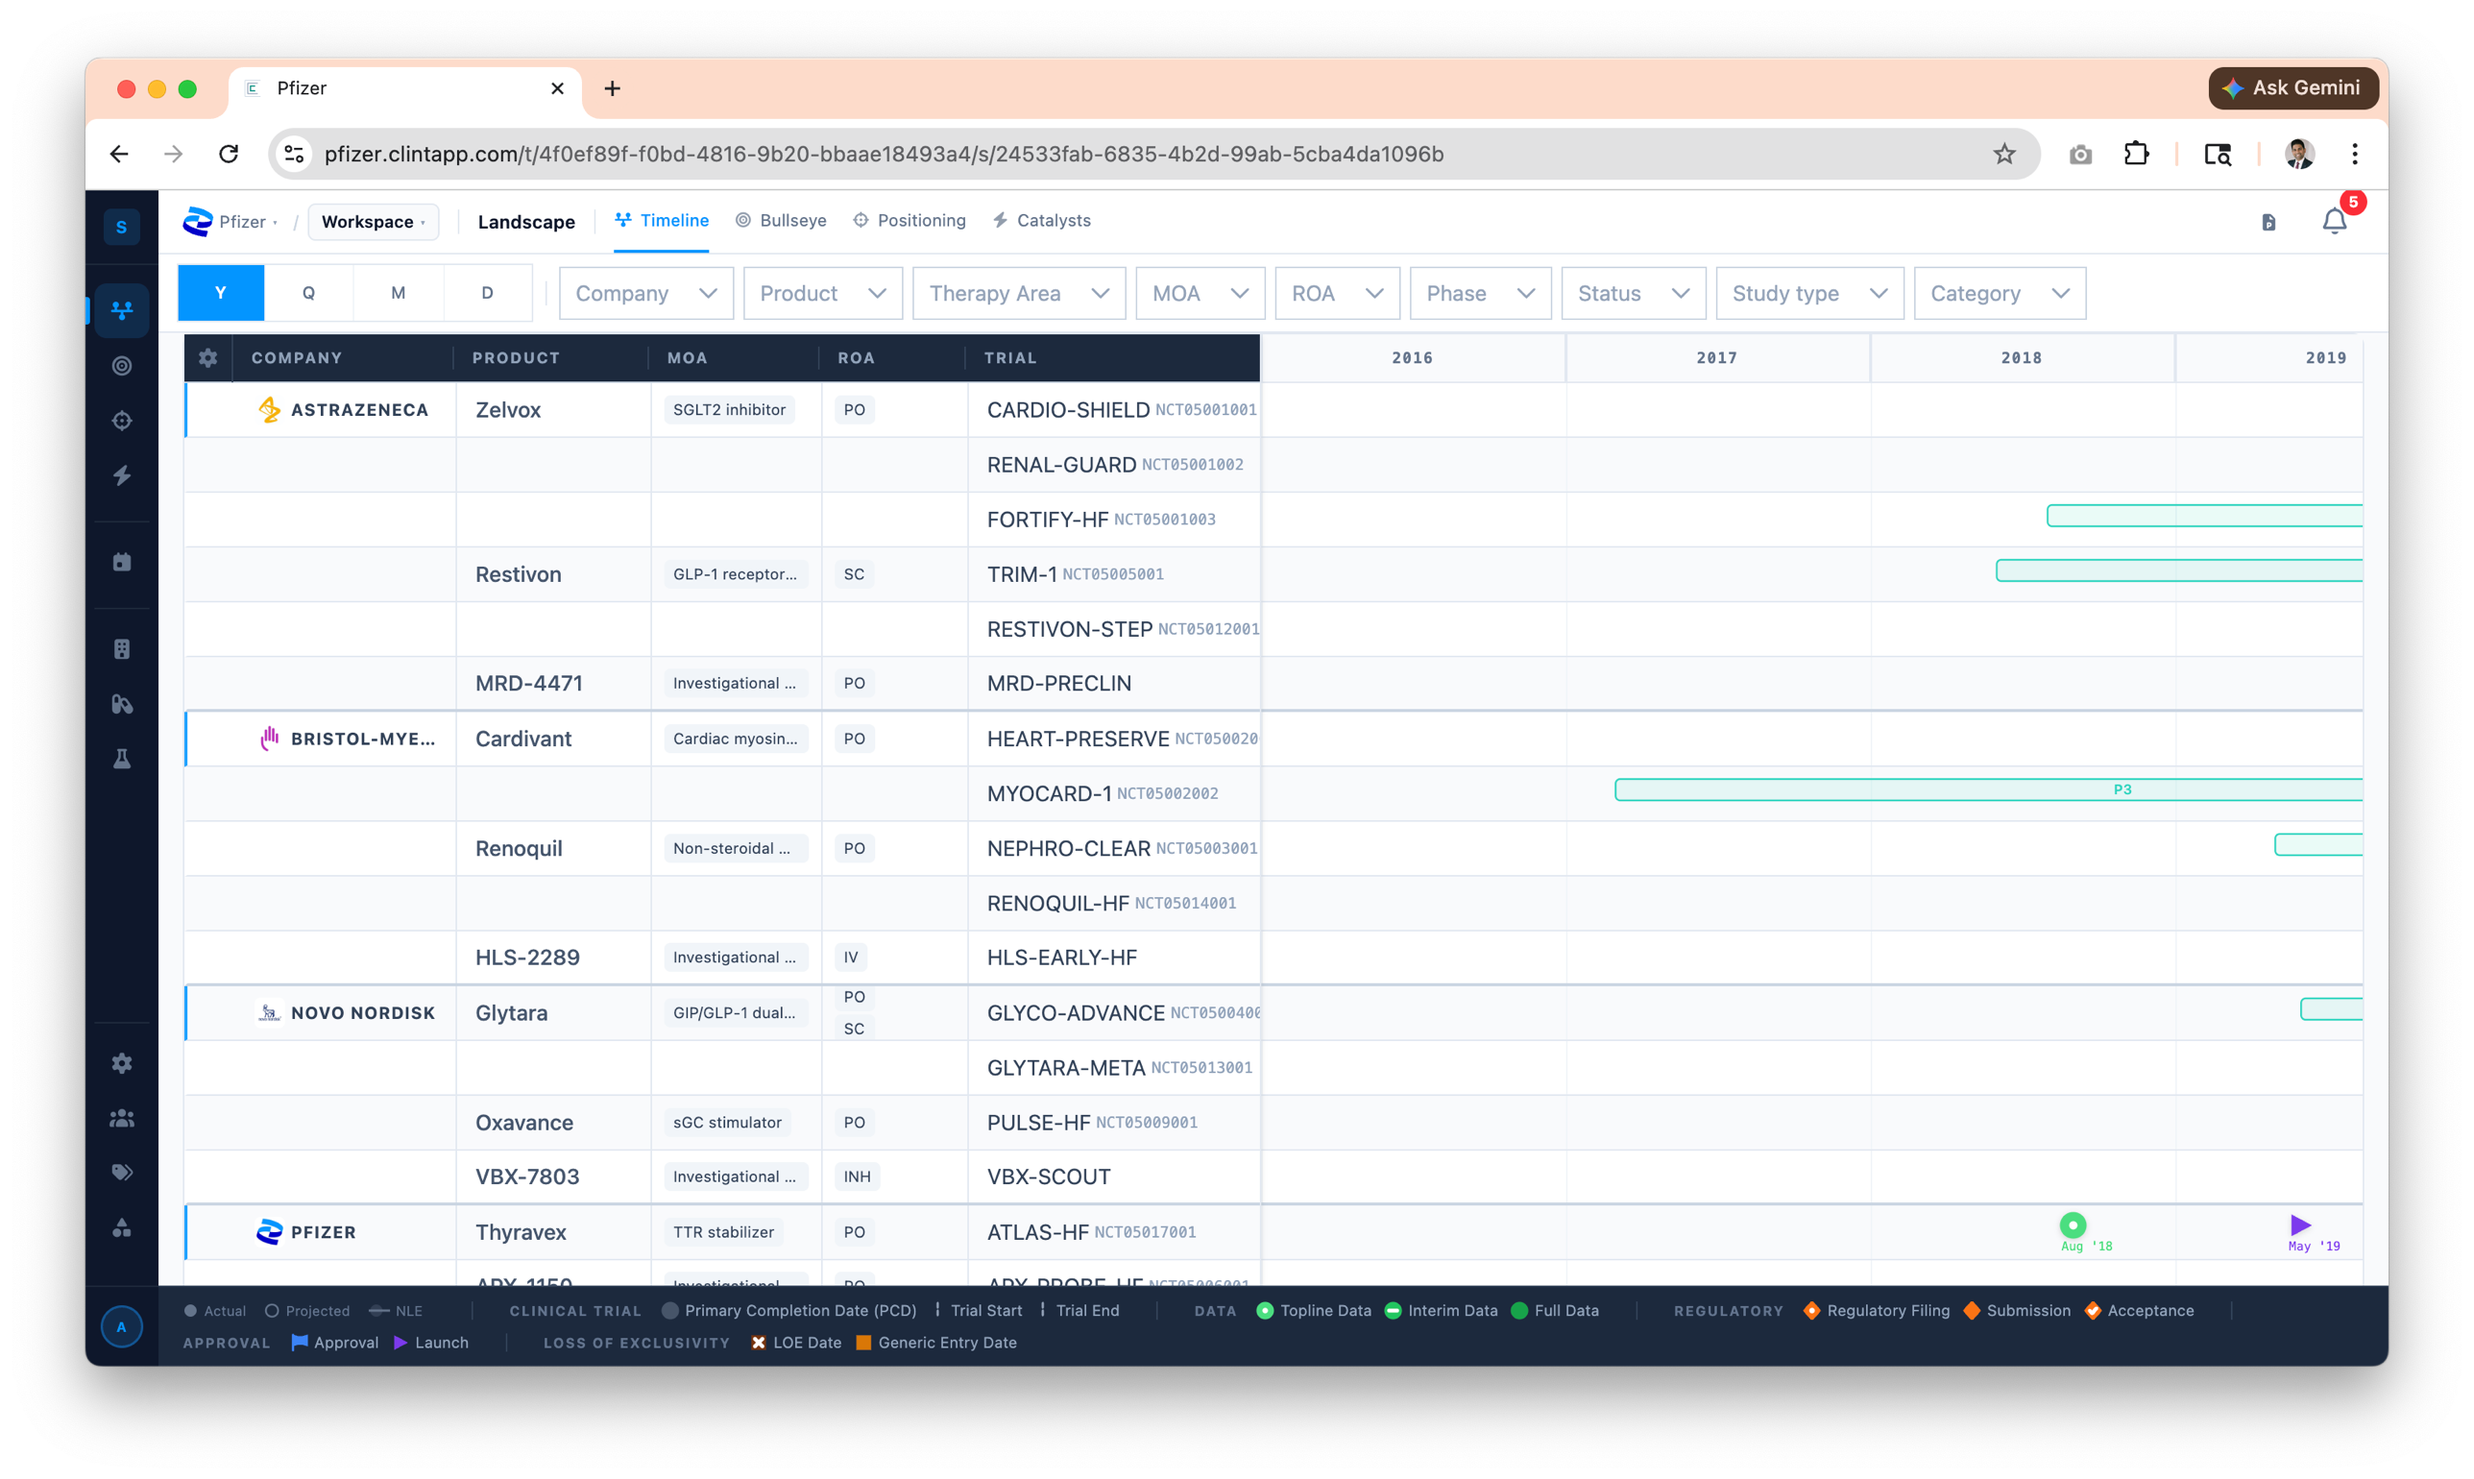
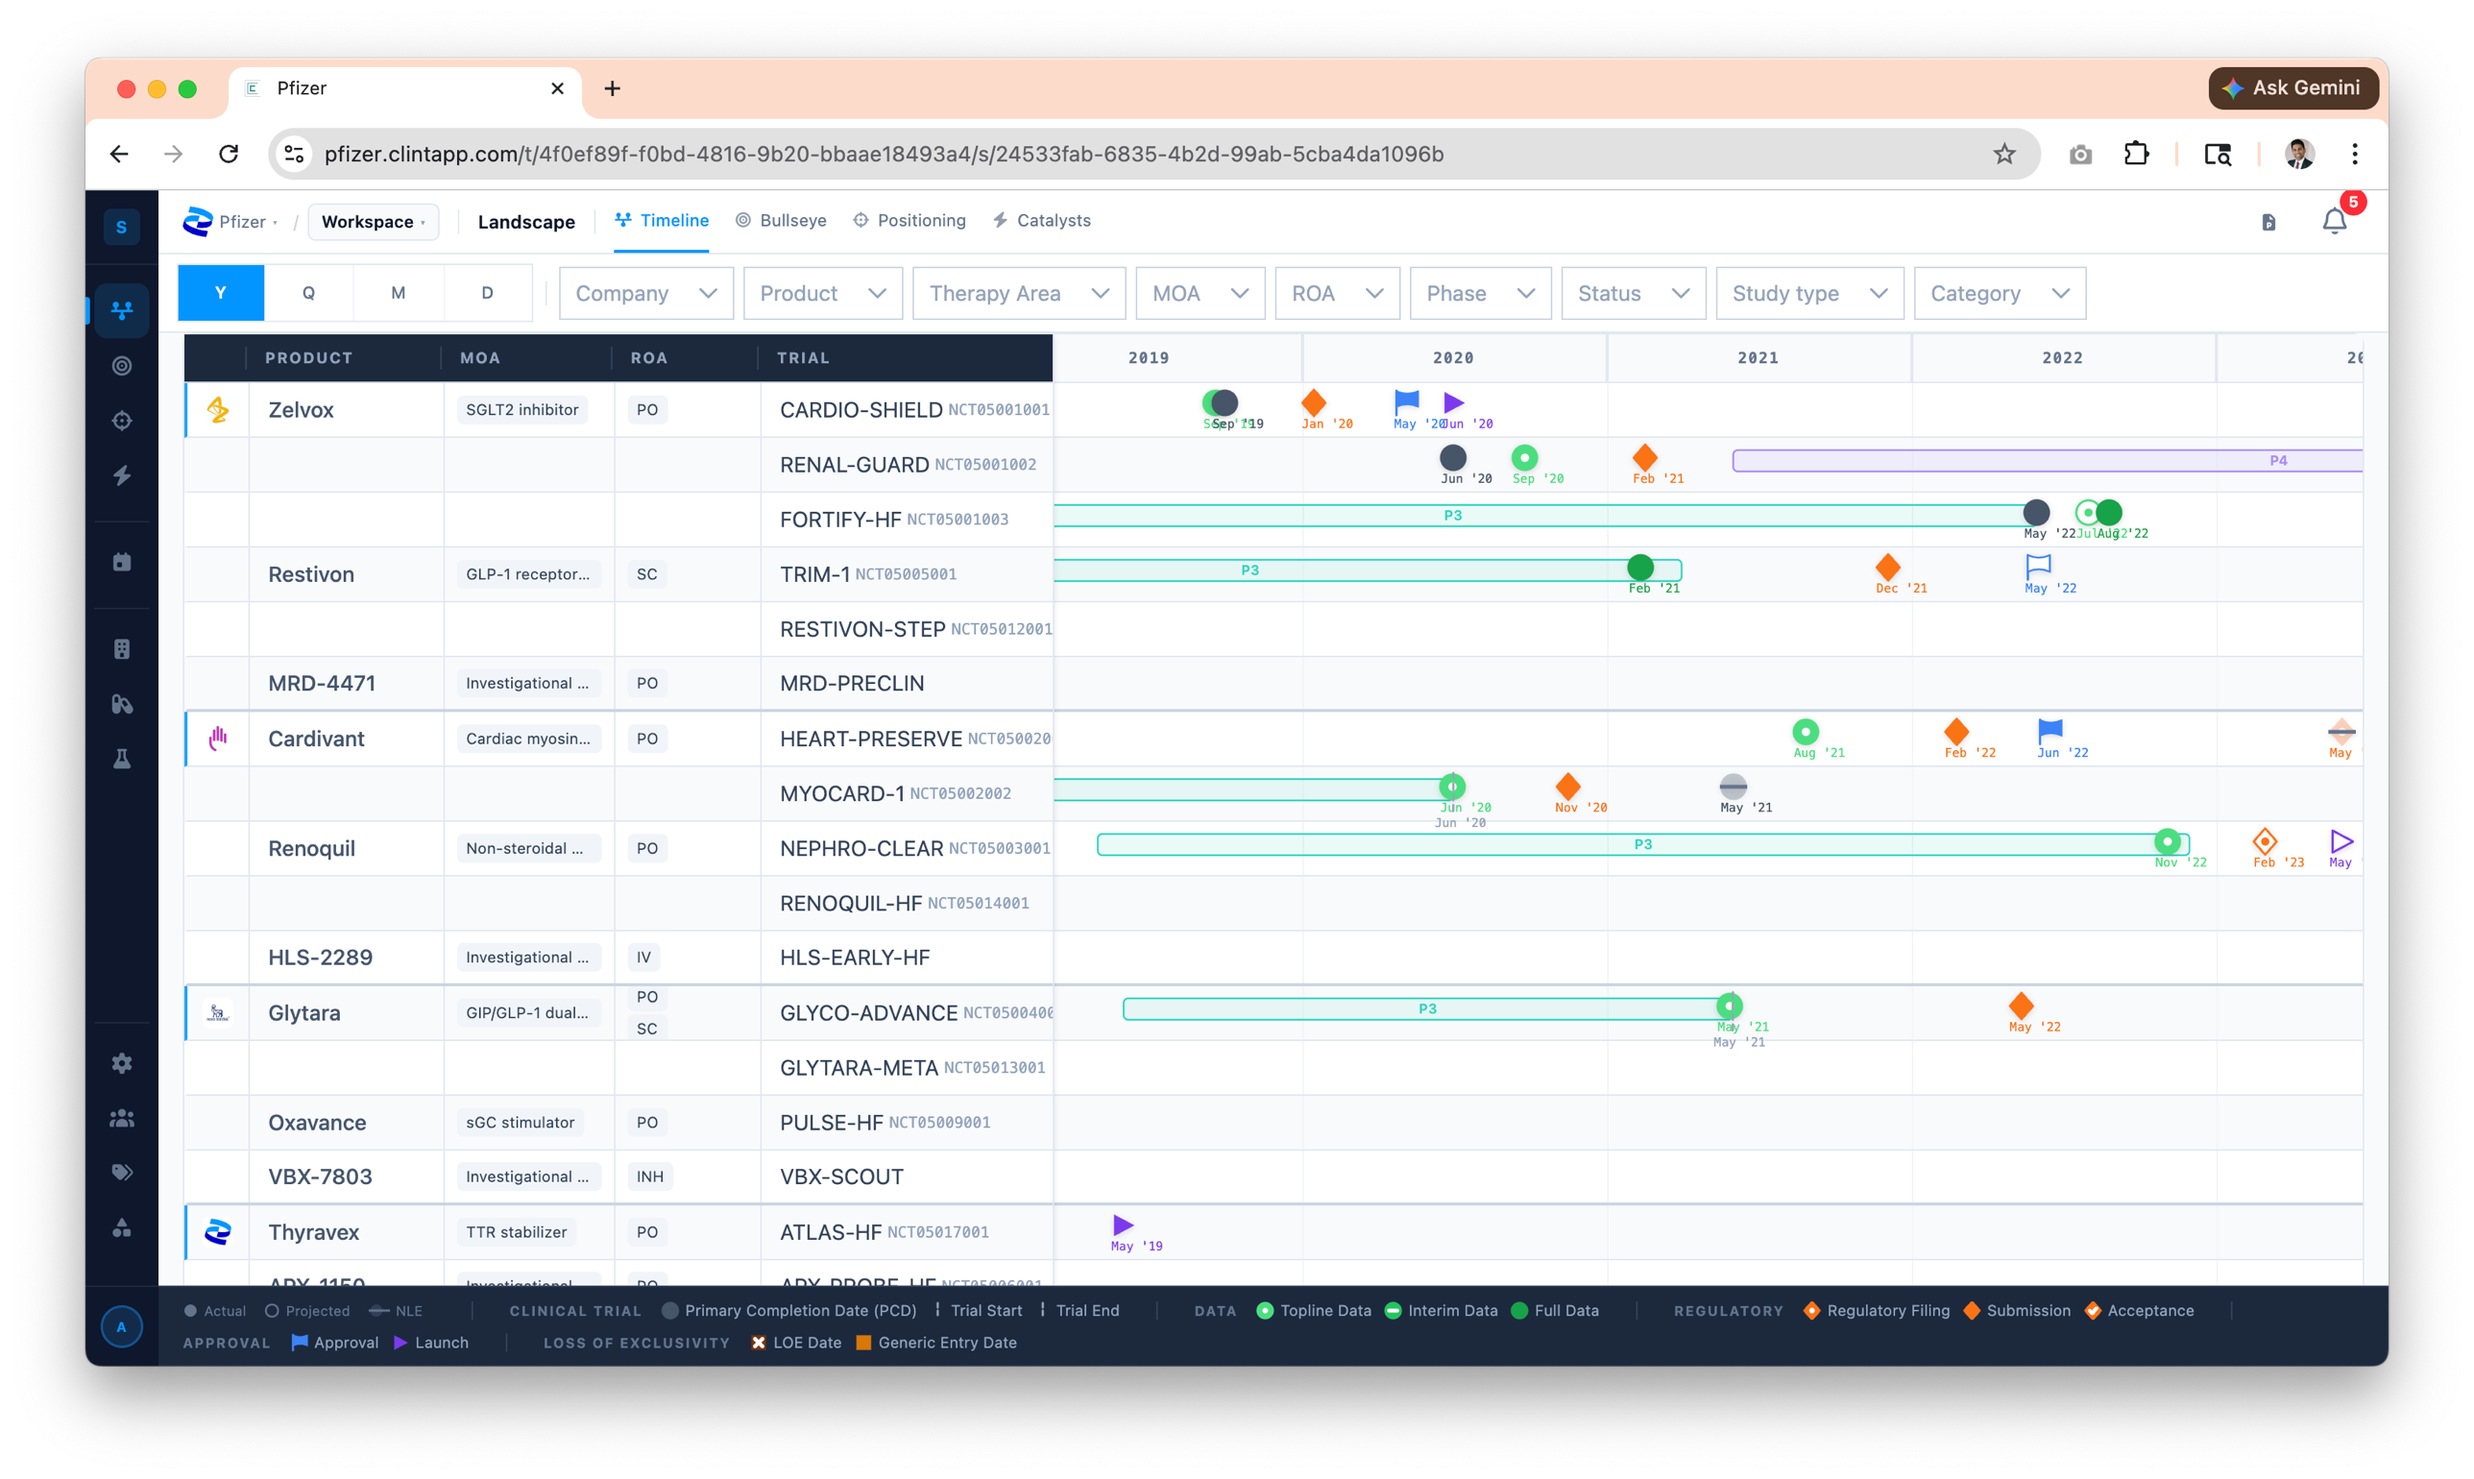
docs(briefing): swap denser timeline shot, add Timeline tile to demo grid
The replacement timeline.png covers more years and surfaces more dated
markers (data, regulatory, approval, launch) per row -- a stronger hero
for the "always current" pitch.

Slide 6 demo grid grows from six tiles to seven (Timeline added at the
front) and shifts to a 4-column layout so 4+3 reads as intentional
rather than 3+3+1 with a stray.

diff --git a/src/client/public/internal/stout-briefing.html b/src/client/public/internal/stout-briefing.html
@@ -112,7 +112,7 @@
   .wordmark .stout-mini { height: 14px; width: auto; }
   .hero-shot { margin-bottom: 22px; border: 1px solid var(--slate-200); background: white; }
   .hero-shot img { display: block; width: 100%; height: auto; max-height: 260px; object-fit: cover; object-position: top left; }
-  .shot-grid { display: grid; grid-template-columns: repeat(3, 1fr); gap: 16px; }
+  .shot-grid { display: grid; grid-template-columns: repeat(4, 1fr); gap: 16px; }
   .shot { display: flex; flex-direction: column; background: white; border: 1px solid var(--slate-200); }
   .shot .img-wrap { aspect-ratio: 16 / 10; overflow: hidden; background: var(--slate-50); border-bottom: 1px solid var(--slate-200); }
   .shot .img-wrap img { width: 100%; height: 100%; object-fit: cover; object-position: top left; display: block; }
@@ -435,6 +435,13 @@
     <h2 class="slide-title">What you'll see in the <span class="accent">demo</span>.</h2>
     <div class="body">
       <div class="shot-grid">
+        <figure class="shot">
+          <div class="img-wrap"><img src="img/timeline.png" alt="Pfizer timeline view -- multi-company heart-failure pipeline with phase bars and dated markers (data, regulatory, approval, launch) across years"></div>
+          <figcaption class="caption">
+            <div class="caption-label">Timeline</div>
+            <h4>Multi-company pipeline with phases and markers</h4>
+          </figcaption>
+        </figure>
         <figure class="shot">
           <div class="img-wrap"><img src="img/bullseye.png" alt="Bullseye for Heart Failure -- competitors arranged radially by phase and company, with a Zelvox detail panel showing trials, MOA, and recent markers"></div>
           <figcaption class="caption">
